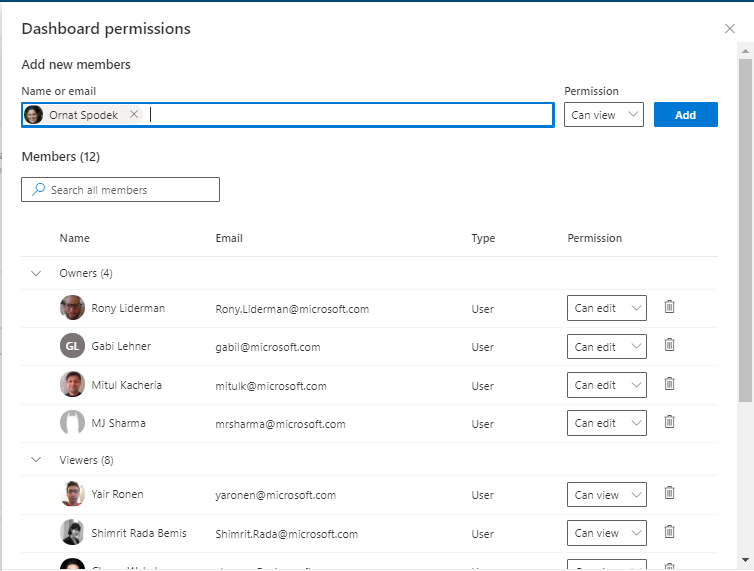
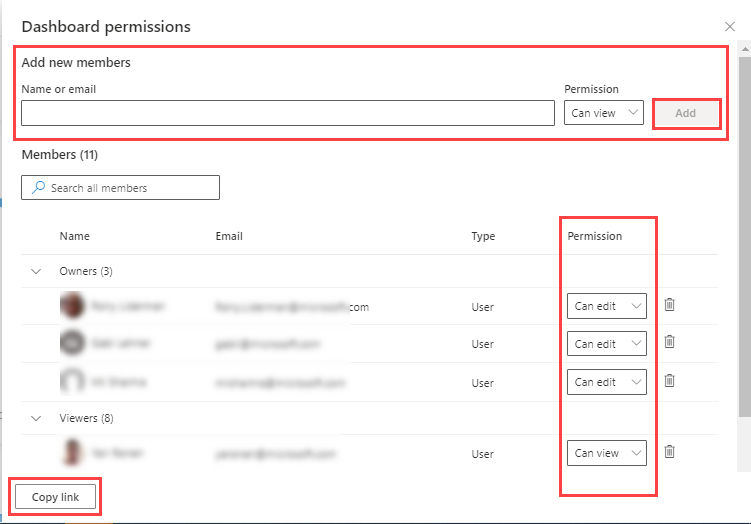
Final changes

diff --git a/data-explorer/azure-data-explorer-dashboards.md b/data-explorer/azure-data-explorer-dashboards.md
@@ -97,21 +97,22 @@ Parameters enable using dashboard filters. Parameters significantly improve dash
 
 ## Share dashboards
 
-1. Select **Share** menu item in the top bar of the dashboard and select **Manage permissions** from the drop down.
+1. Select the **Share** menu item in the top bar of the dashboard 
 
     :::image type="content" source="media/adx-dashboards/share-dashboard.png" alt-text="Share dashboard drop-down":::
 
+1. Select **Manage permissions** from the drop down.
 In the **Dashboard permissions** pane:
-* Grant permissions to the dashboard
-* Change a user permission level
-* Copy and share link to the dashboard
+   * Grant permissions to the dashboard
+   * Change a user permission level
+   * Copy and share link to the dashboard
 
 ### Grant permissions
 
-1. To grant permissions to a user, start typing or paste the user's name or email in **Add new member** box.
-1. Select the **Permission** level as **can view** or **can edit** and then click **Add**.
+To grant permissions to a user:
+1. Write the user's name or email in **Add new members** box.
+1. Select the **Permission** level as **Can view** or **Can edit** and then click **Add**.
 
-\\New image
 :::image type="content" source="media/adx-dashboards/dashboard-permissions.png" alt-text="Manage dashboard permissions":::
 
 ### Change a user permission level
@@ -122,11 +123,15 @@ To change a user permission level:
 
 ### Share the dashboard link
 
-To share the link, use the copy link at the bottom of the pane or at the top level menu of the “Share” drop down
+To share the dashboard link:
+* Select **Share** drop-down and then select **Copy link**.
+* In the **Dashboard permissions** window, select **Copy link**. 
 
-\\ edit text - 3 things
 > [!NOTE]
-> To access the dashboard the user needs the following - dashboard permissions, should have access to the underlying database in the Azure Data Explorer cluster, and also have the link for the first time access.
+> To access the dashboard, a dashboard viewer needs the following: 
+> * Link for dashboard access
+> * Dashboard permissions
+> * Access to the underlying database in the Azure Data Explorer cluster  
 
 ## Enable auto refresh 
 
@@ -144,7 +149,9 @@ To share the link, use the copy link at the bottom of the pane or at the top lev
 
 > [!NOTE]
 > * Select the smallest minimum time interval to reduce unnecessary load on the cluster. 
-> * A dashboard viewer can change the refresh intervals for the dashboard but can't save the changes. A viewer can't select a value which is smaller than the **Minimum time interval** specified by the editor.
+> * A dashboard viewer: 
+>    * Can change the refresh intervals for the dashboard but can't save the changes. 
+>     * Can't select a value which is smaller than the **Minimum time interval** specified by the editor.
 
 ## Next Steps
 

diff --git a/data-explorer/dashboard-customize-visuals.md b/data-explorer/dashboard-customize-visuals.md
@@ -85,12 +85,12 @@ A time chart visual is a type of line graph. the first column of the query is th
 
 An anomaly chart visual is similar to [time chart](#time-chart), but highlights anomalies using the `series_decompose_anomalies` function.
 
-**Map**
+### Map
 
 :::image type="content" source="media/dashboard-customize-visuals/map.png" alt-text="map visual type":::
 
-The map visual type needs 4 columns in the query results to render:
-* First column in the query result is string. It's used for label that can be seen when hovering on the map.
+To render the map visual, 4 columns are needed in the query:
+* String (first column) used for hover label
 * Longitude (real)
 * Latitude (real)
 * Bubble size (int). This can be constant 1 if different sizes aren't required.
@@ -99,8 +99,8 @@ Maps are useful to visualize data with geo coordinates. The Map visual also has 
 
 ## Customize visuals
 
-\\Gabi
-To access the visual customization dialogue, select **Edit Card**. Alternatively, select **Edit Card** at the time of creating a new card using **Add Query**.
+1. Select **Edit** in dashboard menu to switch to edit mode.
+1. To access the visual customization dialogue on a card, click the drop-down menu > **Edit Card**. Alternatively, when you create a new card using **Add Query**, select **Edit Card**.
 
 :::image type="content" source="media/dashboard-customize-visuals/edit-card.png" alt-text="edit card for visual customization":::
 

diff --git a/data-explorer/dashboard-parameters.md b/data-explorer/dashboard-parameters.md
@@ -263,7 +263,7 @@ Query-based parameter values are derived at dashboard load time by executing the
 
 ### Use the free text parameter
 
-Free text parameters don't contain any values. They allow you to introduce your own value from scratch.
+Free text parameters don't contain any values. They allow you to introduce your own value.
 
 #### Create the parameter
 
